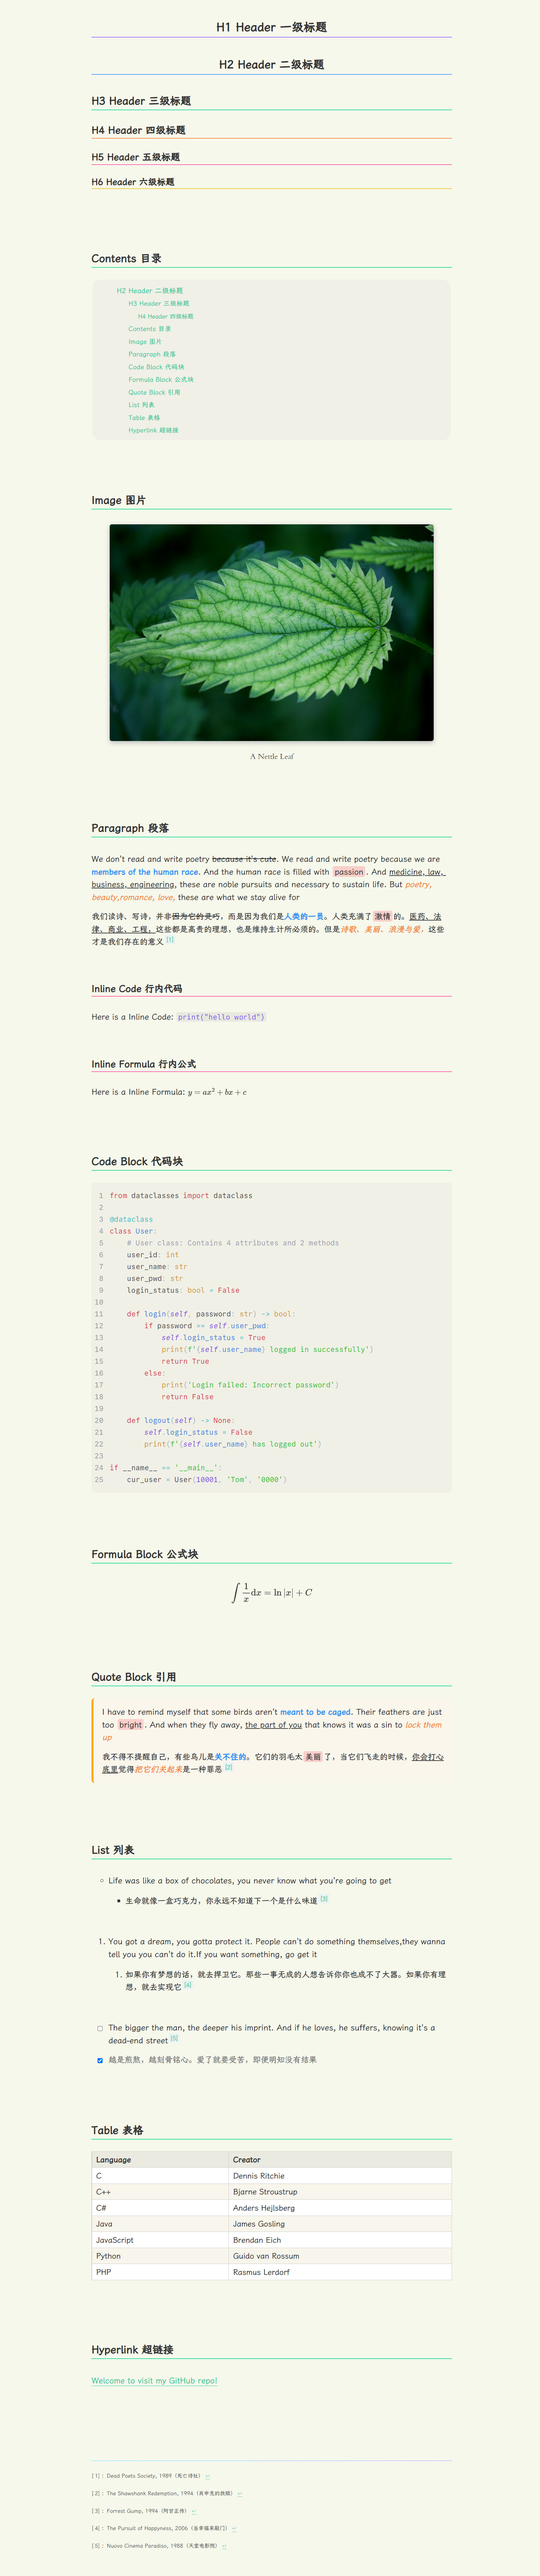
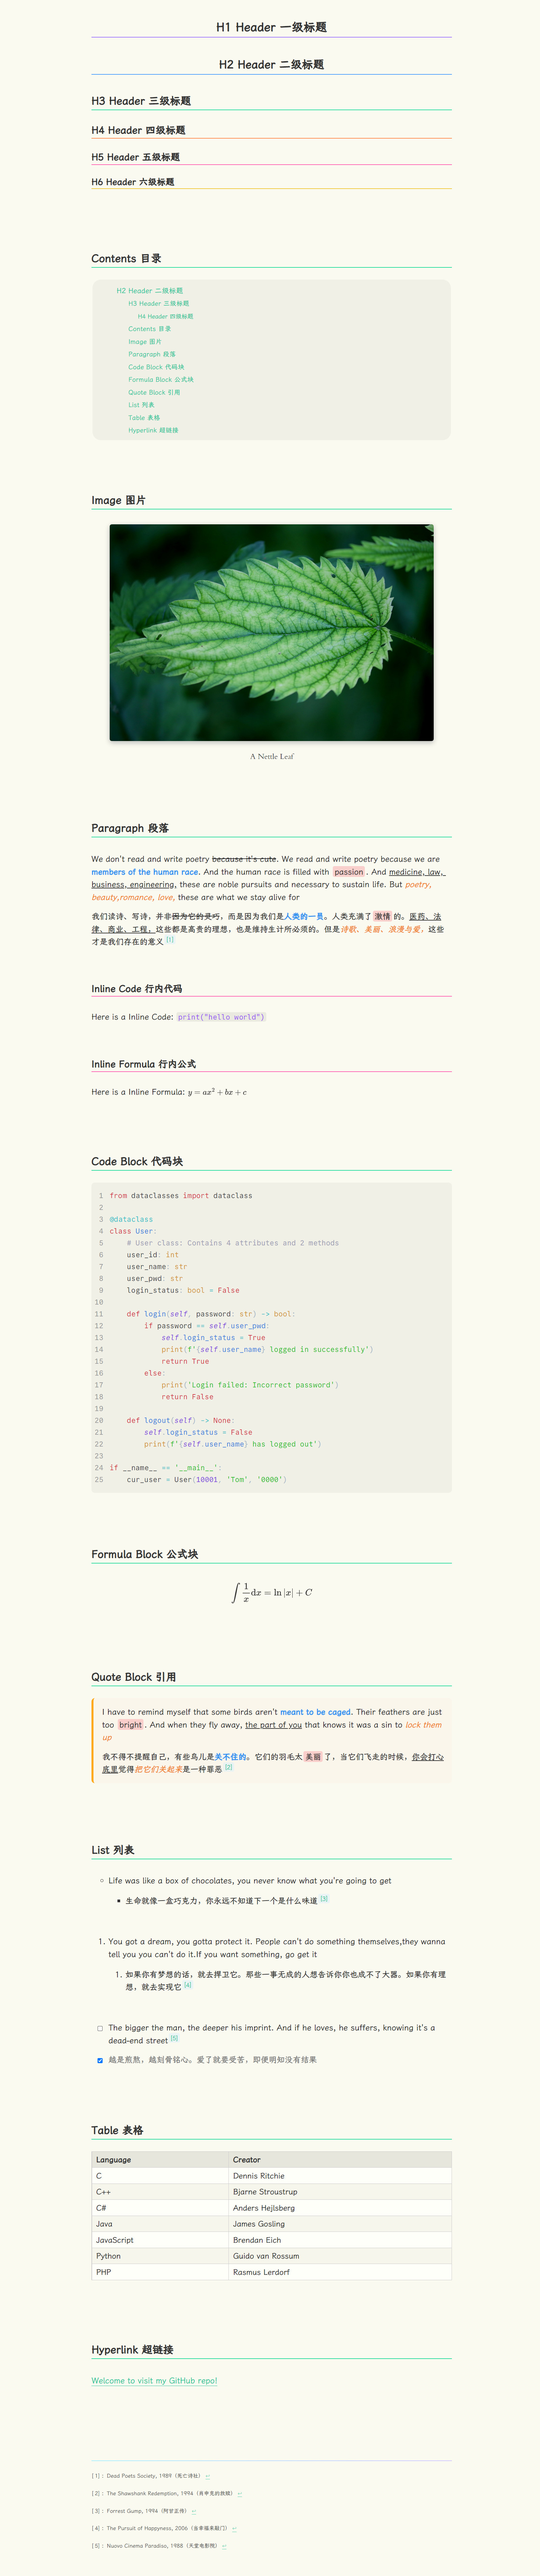
Optimized color theme

Changed region(s): [[0.25, 0.3436, 0.2812, 0.3748], [0.1875, 0.3436, 0.2188, 0.3748]]

diff --git a/rainbow-book.css b/rainbow-book.css
@@ -7,7 +7,7 @@
 
 /* 全局属性 */
 :root{
-  --bg-color: #F6F8EC;                    /*change background*/
+  --bg-color: #FAFAF0;                    /*change background*/
   --text-color: #333333;                  /*change text color*/
   --md-char-color: #C7C5C5;               /*change color of meta characters like `*` in markdown*/
   --meta-content-color: #5B808D;          /*change color of meta contents like image text or link address in markdown*/
@@ -27,7 +27,7 @@
   --deep-theme-color: #4EB289;
   --code-block-bg-color: #F0F0E6;
 
-  --side-bar-bg-color: #EAEAE0;           /*change background of sidebar*/
+  --side-bar-bg-color: #F0F0E6;           /*change background of sidebar*/
   --item-hover-bg-color: rgba(229, 229, 229, 0.59); /*background of control items when hover, like menu in sidebar*/
   --item-hover-text-color: inherit;
   --monospace: monospace;                 /*monospace font for codes, fences*/
@@ -263,7 +263,7 @@ body {
 tt {
   font-family: "CommitMono Nerd Font", "霞鹜臻楷";
   font-size: 0.9em;
-  color: #7850F0;
+  color: #9650F0;
   background-color: rgba(230,230,220,0.8);
 }
 
@@ -294,10 +294,10 @@ tt {
 #write table tr {
   border: 0;
   border-top: 1px solid #CCC;
-  background-color: white;
+  background-color: #FFFFFA;
 }
 #write table tr:nth-child(2n) {
-  background-color: #F8F6EC;
+  background-color: #F6F6EC;
 }
 #write table tr th,
 #write table tr td {
@@ -309,7 +309,7 @@ tt {
 }
 #write table tr th {
   font-weight: bold;
-  background-color: var(--side-bar-bg-color); /* 标题行 */
+  background-color: #E6E6DC; /* 标题行 */
 }
 
 

diff --git a/rainbow-light.css b/rainbow-light.css
@@ -27,7 +27,7 @@
   --deep-theme-color: #4EB289;
   --code-block-bg-color: #F5F5F5;
 
-  --side-bar-bg-color: #F8F8F8;           /*change background of sidebar*/
+  --side-bar-bg-color: #F5F5F5;           /*change background of sidebar*/
   --item-hover-bg-color: rgba(229, 229, 229, 0.59); /*background of control items when hover, like menu in sidebar*/
   --item-hover-text-color: inherit;
   --monospace: monospace;                 /*monospace font for codes, fences*/
@@ -309,7 +309,7 @@ tt {
 }
 #write table tr th {
   font-weight: bold;
-  background-color: #F0F0F0; /* 标题行 */
+  background-color: #E6E6E6; /* 标题行 */
 }
 
 

diff --git a/rainbow.css b/rainbow.css
@@ -309,7 +309,7 @@ tt {
 }
 #write table tr th {
   font-weight: bold;
-  background-color: #F0F0F0; /* 标题行 */
+  background-color: #E6E6E6; /* 标题行 */
 }
 
 
